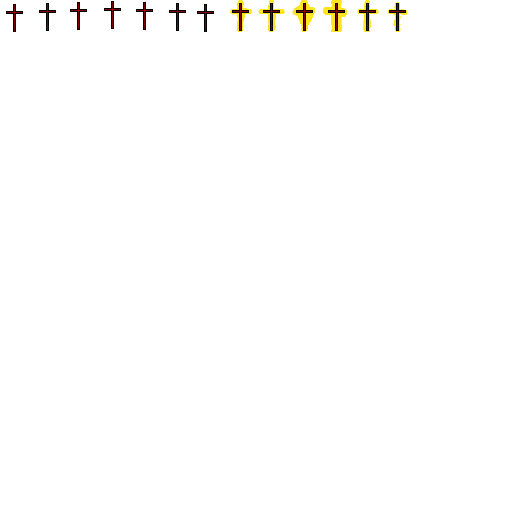
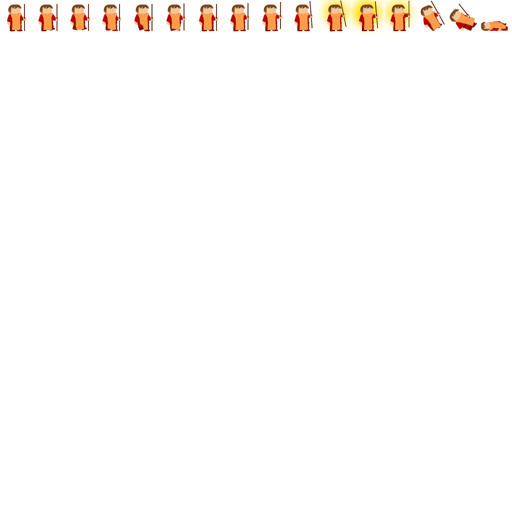
Healers !!

Changed region(s): [[0.0, 0.0, 1.0, 0.0625]]

diff --git a/smallsoldiers/smallsoldiers/entity/Soldier.cs b/smallsoldiers/smallsoldiers/entity/Soldier.cs
@@ -24,7 +24,6 @@ namespace smallsoldiers.entity
         private SpriteEffects se;
         private bool dead, blind;
         private sold_type type;
-        private List<Arrow> arrows;
 
         private Animation walk_anim, attack_anim;
 
@@ -62,10 +61,10 @@ namespace smallsoldiers.entity
         public sold_type GetSoldierType() { return type; }
 
 
-        public Soldier(string _asset, sold_type _t, int _x, int _y, Flag _link)
+        public Soldier(string _asset, sold_type _t, int _x, int _y, Flag _link, int _level)
             : base(_asset,
                    new Rectangle(0, 0, Cons.MAN_SIZE, Cons.MAN_SIZE),
-                   new Rectangle(0, 0, Cons.MAN_SIZE, Cons.MAN_SIZE),
+                   new Rectangle(0, Cons.MAN_SIZE*(_level-1), Cons.MAN_SIZE, Cons.MAN_SIZE),
                    Color.White, 0.6f)
         {
             #region Carac
@@ -74,29 +73,29 @@ namespace smallsoldiers.entity
             switch (type)
             {
                 case sold_type.Ranger:
-                    speed = 1.3f;
-                    armor = 0;
-                    maxlife = 20;
+                    speed = 1.2f+0.1f*_level;
+                    armor = 0.3f*_level;
+                    maxlife = 20+2*_level;
                     range = 320;
-                    damage = 10;
+                    damage = 6+_level;
                     break;
                 case sold_type.Healer:
-                    speed = 1.2f;
-                    armor = 0;
-                    maxlife = 20;
+                    speed = 1.2f + 0.05f * _level;
+                    armor = 0.2f*_level;
+                    maxlife = 20+3*_level;
                     range = 96;
-                    damage = -2f;
+                    damage = -2 - _level;
                     break;
                 default:
-                    speed = 1.1f;
-                    armor = 0.5f;
-                    maxlife = 30;
+                    speed = 1.1f + 0.05f * _level;
+                    armor = 0.5f*_level;
+                    maxlife = 30 + 3 * _level;
                     range = 32;
-                    damage = 4f;
+                    damage = 4f+_level;
                     break;
             }
             life = maxlife;
-            accuracy = 10;
+            accuracy = 9+_level;
             #endregion
             pos_x = _x;
             dest_x = _x;
@@ -110,11 +109,12 @@ namespace smallsoldiers.entity
             target = null;
             se = SpriteEffects.None;
             dead = false;
-            arrows = new List<Arrow>();
             blind = false;
 
-            walk_anim = new Animation(asset, new Rectangle(0, 0, Cons.MAN_SIZE, Cons.MAN_SIZE), 6, 0, depth, false);
-            attack_anim = new Animation(asset, new Rectangle(0, 0, Cons.MAN_SIZE, Cons.MAN_SIZE), 7, 6, depth,
+            walk_anim = new Animation(asset, new Rectangle(0, Cons.MAN_SIZE * (_level - 1), 
+                Cons.MAN_SIZE, Cons.MAN_SIZE), 6, 0, depth, false);
+            attack_anim = new Animation(asset, new Rectangle(0, Cons.MAN_SIZE * (_level - 1), 
+                Cons.MAN_SIZE, Cons.MAN_SIZE), 7, 6, depth,
                 false, (type == sold_type.Ranger));
         }
 
@@ -175,7 +175,7 @@ namespace smallsoldiers.entity
                                     {
                                         int a = 40-accuracy;
                                         Random r = new Random();
-                                        arrows.Add(new Arrow("arrow_louis",
+                                        _allies.Add_arrows(new Arrow("arrow_louis",
                                             rect.X + Cons.MAN_SIZE / 2, rect.Y - Cons.MAN_SIZE / 4,
                                             target.get_X() + r.Next(100) % a - a/2,
                                             target.get_Y() + r.Next(100) % a - a/2,
@@ -227,14 +227,6 @@ namespace smallsoldiers.entity
                         set_attack_on(target);
                     break;
             }
-
-            for (int i = arrows.Count - 1; i >= 0; i--)
-            {
-                if (arrows[i].isdead())
-                    arrows.RemoveAt(i);
-                else
-                    arrows[i].Update(_gameTime, _ennemies);
-            }
         }
 
         public override void Draw()
@@ -256,11 +248,6 @@ namespace smallsoldiers.entity
                     break;
                 default:
                     break;
-            }
-
-            foreach (Arrow item in arrows)
-            {
-                item.Draw();
             }
         }
 

diff --git a/smallsoldiers/smallsoldiers/entity/Building.cs b/smallsoldiers/smallsoldiers/entity/Building.cs
@@ -10,7 +10,8 @@ namespace smallsoldiers.entity
     {
         private Flag fanion;
         public bool display_flag, blind_flag, dead;
-        private int delay, time_since_last, building_state, elapsed, life, life_max;
+        private int delay, time_since_last, building_state, elapsed, life, life_max, level;
+        private float xp;
         private Animation working_anim;
         public bool is_dead()
         {
@@ -36,8 +37,10 @@ namespace smallsoldiers.entity
             blind_flag = false;
             life_max = 100;
             life = life_max;
+            level = 1;
+            xp = 0;
 
-            product = new Soldier(_soldierAsset, _soldierType, rect.X + 32, rect.Y + 64, fanion);
+            product = new Soldier(_soldierAsset, _soldierType, rect.X + 32, rect.Y + 64, fanion, 1);
 
             working_anim = new Animation(_asset, new Rectangle(0, 0, 96, 96), 3, 0, depth, false);
             //model = new Soldier("fighter_louis", 50, 75, fanion);
@@ -59,7 +62,7 @@ namespace smallsoldiers.entity
                     {
                         source.X = 0;
                     }
-                } 
+                }
                 #endregion
             }
             else
@@ -73,17 +76,23 @@ namespace smallsoldiers.entity
                         if (_owner.GetIncome() > 0)
                         {
                             if (_a.Add_soldier(new Soldier(product.GetAsset(),
-                                product.GetSoldierType(), rect.X + 32, rect.Y + 64, fanion), blind_flag))
+                                product.GetSoldierType(), rect.X + 32, rect.Y + 64, fanion, level), blind_flag))
                             {
                                 _owner.RemoveFromIncome(1);
                                 time_since_last = 0;
+                                xp += 160f / (float)level;
+                                if (level < (int)xp / 160 + 1)
+                                {
+                                    //level = (int)xp / 160+1;
+                                    //level_up();
+                                }
                             }
                         }
                     }
                     if (time_since_last <= delay)
                     {
                         working_anim.Update(_gameTime);
-                    } 
+                    }
                     #endregion
                 }
                 else
@@ -97,7 +106,7 @@ namespace smallsoldiers.entity
                 fanion.Update(_gameTime);
             }
 
-            if (life<0)
+            if (life < 0)
             {
                 dead = true;
                 fanion.pass_the_flag(_default_flag);
@@ -115,11 +124,15 @@ namespace smallsoldiers.entity
             blind_flag = _blindness;
             fanion.set_new_pos(_x, _y, _blindness);
         }
+        private void level_up()
+        {
+            working_anim.level_up(Cons.BUILDING_SIZE);
+        }
 
         public override void Draw()
         {
             if (building_state > 2 && time_since_last <= delay)
-                working_anim.Draw(rect);
+                working_anim.Draw(rect, color);
             else
                 base.Draw();
         }

diff --git a/smallsoldiers/smallsoldiers/entity/Arrow.cs b/smallsoldiers/smallsoldiers/entity/Arrow.cs
@@ -51,11 +51,11 @@ namespace smallsoldiers.entity
                     angle = (float)Math.Asin(4 * (rect.X - start_x) / d - 1) / 2;
                     if ((rect.X - start_x) < d / 2)
                     {
-                        angle = (float)(Math.Asin((8f / 6f) * (rect.X - start_x) / d - 2f / 3f /*+ (dest_y - start_y) / d*/));
+                        angle = (float)(Math.Asin((8f / 6f) * (rect.X - start_x) / d - 2f / 3f /*- (dest_y - start_y) / d*/));
                     }
                     else
                     {
-                        angle = (float)(-Math.Asin((8f / 6f) * (dest_x - rect.X) / d - 2f / 3f /*+ (dest_y - start_y) / d*/));
+                        angle = (float)(-Math.Asin((8f / 6f) * (dest_x - rect.X) / d - 2f / 3f /*- (dest_y - start_y) / d*/));
                     }
                 }
                 else
@@ -66,11 +66,11 @@ namespace smallsoldiers.entity
                     rect.Y = (int)(start_y - z + (start_x - rect.X) * (dest_y - start_y) / d);
                     if ((start_x - rect.X) < d / 2)
                     {
-                        angle = (float)(-Math.Asin((8f / 6f) * (start_x - rect.X) / d - 2f / 3f/*+(dest_y - start_y) / d*/));
+                        angle = (float)(-Math.Asin((8f / 6f) * (start_x - rect.X) / d - 2f / 3f/*-(dest_y - start_y) / d*/));
                     }
                     else
                     {
-                        angle = (float)(Math.Asin((8f / 6f) * (rect.X - dest_x) / d - 2f / 3f/*+(dest_y - start_y) / d*/));
+                        angle = (float)(Math.Asin((8f / 6f) * (rect.X - dest_x) / d - 2f / 3f/*-(dest_y - start_y) / d*/));
                     }
                 } 
                 #endregion

diff --git a/smallsoldiers/smallsoldiers/Army.cs b/smallsoldiers/smallsoldiers/Army.cs
@@ -13,10 +13,12 @@ namespace smallsoldiers
     {
         public List<Soldier> soldiers;
         private bool isPlayer;
+        private List<Arrow> arrows;
 
         public Army(bool _isplayer)
         {
             soldiers = new List<Soldier>();
+            arrows = new List<Arrow>();
             isPlayer = _isplayer;
         }
 
@@ -32,6 +34,10 @@ namespace smallsoldiers
             {
                 return false;
             }
+        }
+        public void Add_arrows(Arrow _a)
+        {
+            arrows.Add(_a);
         }
 
         public int HowMany(Rectangle _r)
@@ -54,11 +60,22 @@ namespace smallsoldiers
                 else
                     soldiers[i].Update(_gameTime, this, _ennemy, _soundengine);
             }
+            for (int i = arrows.Count - 1; i >= 0; i--)
+            {
+                if (arrows[i].isdead())
+                    arrows.RemoveAt(i);
+                else
+                    arrows[i].Update(_gameTime, _ennemy);
+            }
         }
 
         public void Draw()
         {
             foreach (Soldier item in soldiers)
+            {
+                item.Draw();
+            }
+            foreach (Arrow item in arrows)
             {
                 item.Draw();
             }

diff --git a/smallsoldiers/smallsoldiers/entity/Entity.cs b/smallsoldiers/smallsoldiers/entity/Entity.cs
@@ -35,17 +35,17 @@ namespace smallsoldiers.entity
         public virtual void Draw()
         {
             if(asset != "null")
-                Ressource.Draw(asset, rect, source, color, 0.5f + ((float)(rect.Y + rect.Height)) / 100000f);
+                Ressource.Draw(asset, rect, source, color, 0.5f + ((float)(rect.Y + rect.Height)) / 10000f);
         }
         public virtual void Draw(SpriteEffects _se)
         {
             if (asset != "null")
-                Ressource.Draw(asset, rect, source, color, 0.5f + ((float)(rect.Y + rect.Height)) / 100000f, _se);
+                Ressource.Draw(asset, rect, source, color, 0.5f + ((float)(rect.Y + rect.Height)) / 10000f, _se);
         }
         public virtual void Draw(SpriteEffects _se, int _alt, float _angle)
         {
             if (asset != "null")
-                Ressource.Draw(asset, rect, source, color, 0.5f + ((float)(rect.Y + rect.Height+_alt)) / 100000f, _se, _angle);
+                Ressource.Draw(asset, rect, source, color, 0.5f + ((float)(rect.Y + rect.Height+_alt)) / 10000f, _se, _angle);
         }
     }
 }

diff --git a/smallsoldiers/smallsoldiers/entity/Animation.cs b/smallsoldiers/smallsoldiers/entity/Animation.cs
@@ -61,6 +61,11 @@ namespace smallsoldiers.entity
                 return false;
         }
 
+        public void level_up(int size)
+        {
+            source.Y += size;
+        }
+
         public void Draw(Rectangle _rect)
         {
             Ressource.Draw(asset, _rect, source, Color.White, depth);
